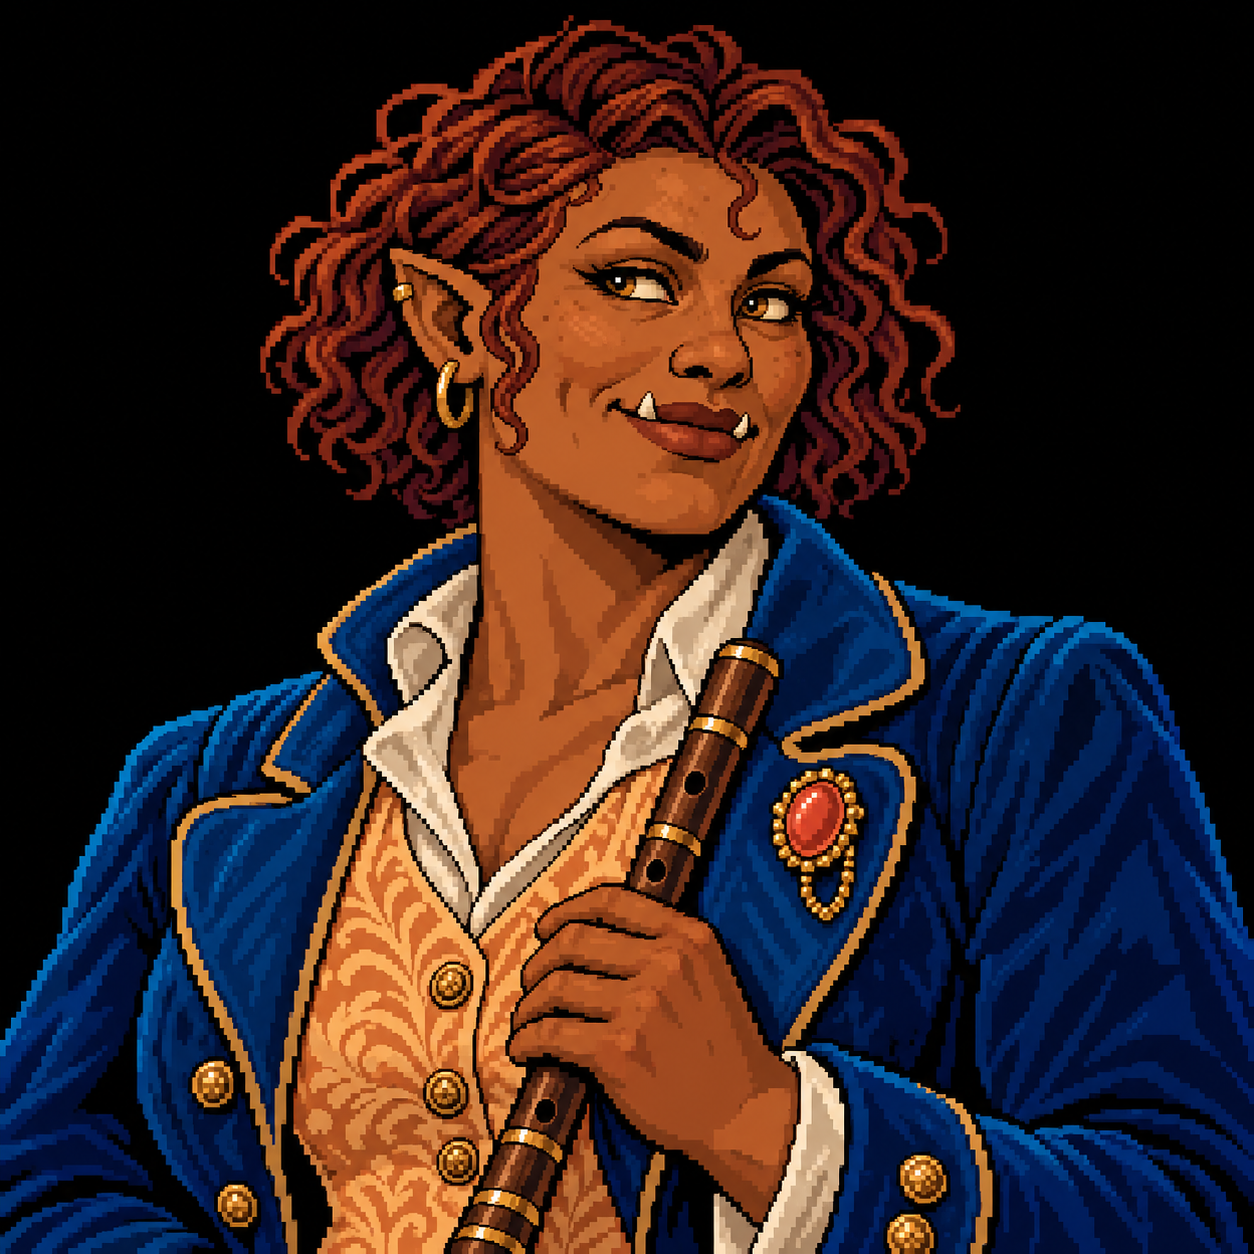
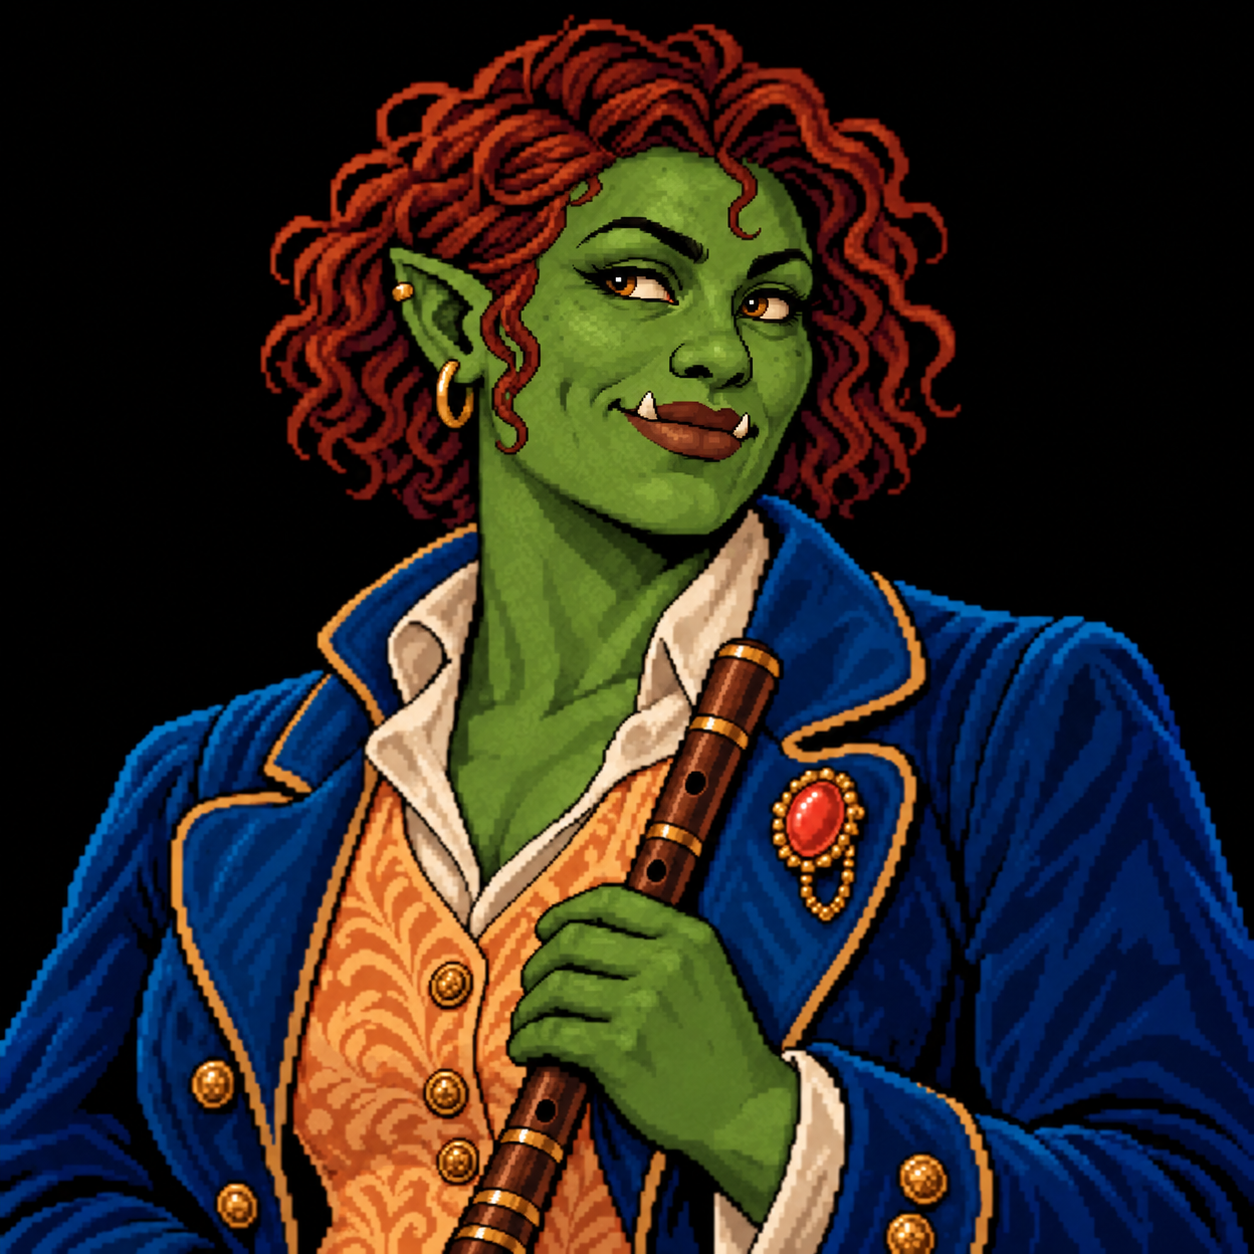
Recolor Orc portraits green while retaining character features

diff --git a/portraits/README.md b/portraits/README.md
@@ -20,6 +20,12 @@ original game's local contact sheet informed general palette, framing, and
 readability of the approved six; the expansion uses those approved portraits
 as a rendering-style reference. No extracted original assets are included here.
 
+The four Orc portraits were subsequently revised to visibly green skin at the
+user's request, retaining their individual ancestry-inspired facial features,
+hair, expressions, costumes, and poses. `orc-green-revision-prompts.json` records
+the built-in image-generation edit prompts. Their basenames and catalog metadata
+remain the same. Earlier generation prompts document the original versions.
+
 All 36 PNGs retain the generator's 1254 x 1254 full-resolution output. Pixel-art styling does
 not guarantee a mathematically uniform low-resolution pixel grid. Local review
 previews render each at 88 x 88 as well as enlarged sizes; these are visual
